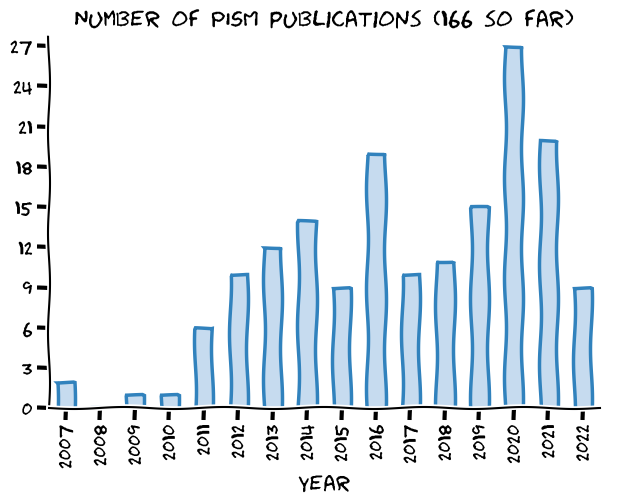
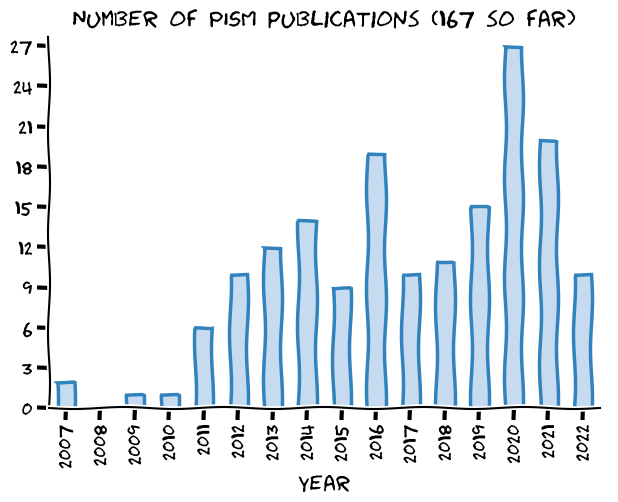
[skip ci] Update the website

Changed region(s): [[0.123, 0.0, 0.9531, 0.0598], [0.9223, 0.5378, 0.9838, 0.7769]]

diff --git a/publications/index.html b/publications/index.html
@@ -294,6 +294,7 @@ window.onscroll = function() {
   <li>S. Hinck, E. J. Gowan, X. Zhang, and G. Lohmann. PISM-LakeCC: Implementing an adaptive proglacial lake boundary into an ice sheet model. <em>The Cryosphere</em>, pages 941–965, 2022. URL: <a href="https://tc.copernicus.org/articles/16/941/2022/">https://tc.copernicus.org/articles/16/941/2022/</a>, <a href="https://doi.org/10.5194/tc-16-941-2022">doi:10.5194/tc-16-941-2022</a>.</li>
   <li>Shuang Liu, Kaiheng Hu, Weiming Liu, and Paul A. Carling. Hydro-climatic characteristics of Yarlung Zangbo River Basin since the Last Glacial Maximum. <em>Adv. Atmos. Sci.</em>, 2022. <a href="https://doi.org/10.1007/s00376-021-1150-7">doi:10.1007/s00376-021-1150-7</a>.</li>
   <li>M. S. Madsen, S. Yang, G. Aðalgeirsdóttir, S. H. Svendsen, C. B. Rodehacke, and I. M. Ringgaard. The role of an interactive greenland ice sheet in the coupled climate-ice sheet model EC-earth-PISM. <em>Climate Dynamics</em>, Feb 2022. <a href="https://doi.org/10.1007/s00382-022-06184-6">doi:10.1007/s00382-022-06184-6</a>.</li>
+  <li>T. Schlemm, J. Feldmann, R. Winkelmann, and A. Levermann. Stabilizing effect of mélange buttressing on the marine ice cliff instability of the west antarctic ice sheet. <em>The Cryosphere Discussions</em>, 2022. accepted. URL: <a href="https://tc.copernicus.org/preprints/tc-2021-238/">https://tc.copernicus.org/preprints/tc-2021-238/</a>, <a href="https://doi.org/10.5194/tc-2021-238">doi:10.5194/tc-2021-238</a>.</li>
   <li>Martin Siegert and Nicholas R Golledge. Advances in Numerical Modelling of the Antarctic Ice Sheet. In <em>Antarctic Climate Evolution</em>, chapter 5, pages 199–218. Elsevier, 2nd edition, 2022.</li>
   <li>Qing Yan, Lewis A. Owen, Chuncheng Guo, Zhongshi Zhang, Jinzhe Zhang, and Huijun Wang. Widespread glacier advances across the Tian Shan during Marine Isotope Stage 3 not supported by climate-glaciation simulations. <em>Fundamental Research</em>, 2022. URL: <a href="https://www.sciencedirect.com/science/article/pii/S266732582200111X">https://www.sciencedirect.com/science/article/pii/S266732582200111X</a>, <a href="https://doi.org/10.1016/j.fmre.2022.01.033">doi:10.1016/j.fmre.2022.01.033</a>.</li>
   <li>Hu Yang, Uta Krebs-Kanzow, Thomas Kleiner, Dmitry Sidorenko, Christian Bernd Rodehacke, Xiaoxu Shi, Paul Gierz, Lu Niu, Evan J. Gowan, Sebastian Hinck, Xingxing Liu, Lennert B. Stap, and Gerrit Lohmann. Impact of paleoclimate on present and future evolution of the Greenland Ice Sheet. <em>PLOS ONE</em>, 17(1):1–21, 2022. <a href="https://doi.org/10.1371/journal.pone.0259816">doi:10.1371/journal.pone.0259816</a>.</li>

diff --git a/publications/submitted/index.html b/publications/submitted/index.html
@@ -286,7 +286,6 @@ window.onscroll = function() {
 
 <ol>
   <li>J. Feldmann, R. Reese, R. Winkelmann, and A. Levermann. Shear-margin melting causes stronger transient ice discharge than ice-stream melting according to idealized simulations. <em>The Cryosphere Discussions</em>, 2021:1–28, 2021. URL: <a href="https://tc.copernicus.org/preprints/tc-2021-327/">https://tc.copernicus.org/preprints/tc-2021-327/</a>, <a href="https://doi.org/10.5194/tc-2021-327">doi:10.5194/tc-2021-327</a>.</li>
-  <li>T. Schlemm, J. Feldmann, R. Winkelmann, and A. Levermann. Stabilizing effect of mélange buttressing on the marine ice cliff instability of the west antarctic ice sheet. <em>The Cryosphere Discussions</em>, 2021:1–29, 2021. URL: <a href="https://tc.copernicus.org/preprints/tc-2021-238/">https://tc.copernicus.org/preprints/tc-2021-238/</a>, <a href="https://doi.org/10.5194/tc-2021-238">doi:10.5194/tc-2021-238</a>.</li>
   <li>C. Yue, L. S. Schmidt, L. Zhao, M. Wolovick, and J. C. Moore. Insensitivity of mass loss of icelandic vatnajökull ice cap to solar geoengineering. <em>The Cryosphere Discussions</em>, 2021:1–20, 2021. URL: <a href="https://tc.copernicus.org/preprints/tc-2021-318/">https://tc.copernicus.org/preprints/tc-2021-318/</a>, <a href="https://doi.org/10.5194/tc-2021-318">doi:10.5194/tc-2021-318</a>.</li>
   <li>M. Zeitz, J. M. Haacker, J. F. Donges, T. Albrecht, and R. Winkelmann. Dynamic regimes of the greenland ice sheet emerging from interacting melt-elevation and glacial isostatic adjustment feedbacks. <em>Earth System Dynamics Discussions</em>, 2021:1–25, 2021. URL: <a href="https://esd.copernicus.org/preprints/esd-2021-100/">https://esd.copernicus.org/preprints/esd-2021-100/</a>, <a href="https://doi.org/10.5194/esd-2021-100">doi:10.5194/esd-2021-100</a>.</li>
   <li>M. Zeitz, R. Winkelmann, and A. Levermann. Implications of flow law uncertainty for flow-driven ice-loss in greenland under idealized warming pathways. <em>The Cryosphere Discussions</em>, 2021. URL: <a href="http://www.pik-potsdam.de/~anders/publications/zeitz_winkelmann21.pdf">http://www.pik-potsdam.de/~anders/publications/zeitz_winkelmann21.pdf</a>.</li>

diff --git a/publications/published.md b/publications/published.md
@@ -5,10 +5,11 @@
 3. S\. Hinck, E\. J\. Gowan, X\. Zhang, and G\. Lohmann\. PISM\-LakeCC: Implementing an adaptive proglacial lake boundary into an ice sheet model\. *The Cryosphere*, pages 941–965, 2022\. URL: [https://tc\.copernicus\.org/articles/16/941/2022/](https://tc.copernicus.org/articles/16/941/2022/), [doi:10\.5194/tc\-16\-941\-2022](https://doi.org/10.5194/tc-16-941-2022)\.   
 4. Shuang Liu, Kaiheng Hu, Weiming Liu, and Paul A\. Carling\. Hydro\-climatic characteristics of Yarlung Zangbo River Basin since the Last Glacial Maximum\. *Adv\. Atmos\. Sci\.*, 2022\. [doi:10\.1007/s00376\-021\-1150\-7](https://doi.org/10.1007/s00376-021-1150-7)\.   
 5. M\. S\. Madsen, S\. Yang, G\. Aðalgeirsdóttir, S\. H\. Svendsen, C\. B\. Rodehacke, and I\. M\. Ringgaard\. The role of an interactive greenland ice sheet in the coupled climate\-ice sheet model EC\-earth\-PISM\. *Climate Dynamics*, Feb 2022\. [doi:10\.1007/s00382\-022\-06184\-6](https://doi.org/10.1007/s00382-022-06184-6)\.   
-6. Martin Siegert and Nicholas R Golledge\. Advances in Numerical Modelling of the Antarctic Ice Sheet\. In *Antarctic Climate Evolution*, chapter 5, pages 199–218\. Elsevier, 2nd edition, 2022\.   
-7. Qing Yan, Lewis A\. Owen, Chuncheng Guo, Zhongshi Zhang, Jinzhe Zhang, and Huijun Wang\. Widespread glacier advances across the Tian Shan during Marine Isotope Stage 3 not supported by climate\-glaciation simulations\. *Fundamental Research*, 2022\. URL: [https://www\.sciencedirect\.com/science/article/pii/S266732582200111X](https://www.sciencedirect.com/science/article/pii/S266732582200111X), [doi:10\.1016/j\.fmre\.2022\.01\.033](https://doi.org/10.1016/j.fmre.2022.01.033)\.   
-8. Hu Yang, Uta Krebs\-Kanzow, Thomas Kleiner, Dmitry Sidorenko, Christian Bernd Rodehacke, Xiaoxu Shi, Paul Gierz, Lu Niu, Evan J\. Gowan, Sebastian Hinck, Xingxing Liu, Lennert B\. Stap, and Gerrit Lohmann\. Impact of paleoclimate on present and future evolution of the Greenland Ice Sheet\. *PLOS ONE*, 17\(1\):1–21, 2022\. [doi:10\.1371/journal\.pone\.0259816](https://doi.org/10.1371/journal.pone.0259816)\.   
-9. A\.\-S\. P\. Zinck and A\. Grinsted\. Brief communication: estimating the ice thickness of the müller ice cap to support selection of a drill site\. *The Cryosphere*, 16\(4\):1399–1407, 2022\. URL: [https://tc\.copernicus\.org/articles/16/1399/2022/](https://tc.copernicus.org/articles/16/1399/2022/), [doi:10\.5194/tc\-16\-1399\-2022](https://doi.org/10.5194/tc-16-1399-2022)\.   
+6. T\. Schlemm, J\. Feldmann, R\. Winkelmann, and A\. Levermann\. Stabilizing effect of mélange buttressing on the marine ice cliff instability of the west antarctic ice sheet\. *The Cryosphere Discussions*, 2022\. accepted\. URL: [https://tc\.copernicus\.org/preprints/tc\-2021\-238/](https://tc.copernicus.org/preprints/tc-2021-238/), [doi:10\.5194/tc\-2021\-238](https://doi.org/10.5194/tc-2021-238)\.   
+7. Martin Siegert and Nicholas R Golledge\. Advances in Numerical Modelling of the Antarctic Ice Sheet\. In *Antarctic Climate Evolution*, chapter 5, pages 199–218\. Elsevier, 2nd edition, 2022\.   
+8. Qing Yan, Lewis A\. Owen, Chuncheng Guo, Zhongshi Zhang, Jinzhe Zhang, and Huijun Wang\. Widespread glacier advances across the Tian Shan during Marine Isotope Stage 3 not supported by climate\-glaciation simulations\. *Fundamental Research*, 2022\. URL: [https://www\.sciencedirect\.com/science/article/pii/S266732582200111X](https://www.sciencedirect.com/science/article/pii/S266732582200111X), [doi:10\.1016/j\.fmre\.2022\.01\.033](https://doi.org/10.1016/j.fmre.2022.01.033)\.   
+9. Hu Yang, Uta Krebs\-Kanzow, Thomas Kleiner, Dmitry Sidorenko, Christian Bernd Rodehacke, Xiaoxu Shi, Paul Gierz, Lu Niu, Evan J\. Gowan, Sebastian Hinck, Xingxing Liu, Lennert B\. Stap, and Gerrit Lohmann\. Impact of paleoclimate on present and future evolution of the Greenland Ice Sheet\. *PLOS ONE*, 17\(1\):1–21, 2022\. [doi:10\.1371/journal\.pone\.0259816](https://doi.org/10.1371/journal.pone.0259816)\.   
+10. A\.\-S\. P\. Zinck and A\. Grinsted\. Brief communication: estimating the ice thickness of the müller ice cap to support selection of a drill site\. *The Cryosphere*, 16\(4\):1399–1407, 2022\. URL: [https://tc\.copernicus\.org/articles/16/1399/2022/](https://tc.copernicus.org/articles/16/1399/2022/), [doi:10\.5194/tc\-16\-1399\-2022](https://doi.org/10.5194/tc-16-1399-2022)\.   
 
 ### 2021
 

diff --git a/publications/submitted_papers.md b/publications/submitted_papers.md
@@ -1,10 +1,9 @@
 ### 2021
 
 1. J\. Feldmann, R\. Reese, R\. Winkelmann, and A\. Levermann\. Shear\-margin melting causes stronger transient ice discharge than ice\-stream melting according to idealized simulations\. *The Cryosphere Discussions*, 2021:1–28, 2021\. URL: [https://tc\.copernicus\.org/preprints/tc\-2021\-327/](https://tc.copernicus.org/preprints/tc-2021-327/), [doi:10\.5194/tc\-2021\-327](https://doi.org/10.5194/tc-2021-327)\.   
-2. T\. Schlemm, J\. Feldmann, R\. Winkelmann, and A\. Levermann\. Stabilizing effect of mélange buttressing on the marine ice cliff instability of the west antarctic ice sheet\. *The Cryosphere Discussions*, 2021:1–29, 2021\. URL: [https://tc\.copernicus\.org/preprints/tc\-2021\-238/](https://tc.copernicus.org/preprints/tc-2021-238/), [doi:10\.5194/tc\-2021\-238](https://doi.org/10.5194/tc-2021-238)\.   
-3. C\. Yue, L\. S\. Schmidt, L\. Zhao, M\. Wolovick, and J\. C\. Moore\. Insensitivity of mass loss of icelandic vatnajökull ice cap to solar geoengineering\. *The Cryosphere Discussions*, 2021:1–20, 2021\. URL: [https://tc\.copernicus\.org/preprints/tc\-2021\-318/](https://tc.copernicus.org/preprints/tc-2021-318/), [doi:10\.5194/tc\-2021\-318](https://doi.org/10.5194/tc-2021-318)\.   
-4. M\. Zeitz, J\. M\. Haacker, J\. F\. Donges, T\. Albrecht, and R\. Winkelmann\. Dynamic regimes of the greenland ice sheet emerging from interacting melt\-elevation and glacial isostatic adjustment feedbacks\. *Earth System Dynamics Discussions*, 2021:1–25, 2021\. URL: [https://esd\.copernicus\.org/preprints/esd\-2021\-100/](https://esd.copernicus.org/preprints/esd-2021-100/), [doi:10\.5194/esd\-2021\-100](https://doi.org/10.5194/esd-2021-100)\.   
-5. M\. Zeitz, R\. Winkelmann, and A\. Levermann\. Implications of flow law uncertainty for flow\-driven ice\-loss in greenland under idealized warming pathways\. *The Cryosphere Discussions*, 2021\. URL: [http://www\.pik\-potsdam\.de/~anders/publications/zeitz\_winkelmann21\.pdf](http://www.pik-potsdam.de/~anders/publications/zeitz_winkelmann21.pdf)\.   
+2. C\. Yue, L\. S\. Schmidt, L\. Zhao, M\. Wolovick, and J\. C\. Moore\. Insensitivity of mass loss of icelandic vatnajökull ice cap to solar geoengineering\. *The Cryosphere Discussions*, 2021:1–20, 2021\. URL: [https://tc\.copernicus\.org/preprints/tc\-2021\-318/](https://tc.copernicus.org/preprints/tc-2021-318/), [doi:10\.5194/tc\-2021\-318](https://doi.org/10.5194/tc-2021-318)\.   
+3. M\. Zeitz, J\. M\. Haacker, J\. F\. Donges, T\. Albrecht, and R\. Winkelmann\. Dynamic regimes of the greenland ice sheet emerging from interacting melt\-elevation and glacial isostatic adjustment feedbacks\. *Earth System Dynamics Discussions*, 2021:1–25, 2021\. URL: [https://esd\.copernicus\.org/preprints/esd\-2021\-100/](https://esd.copernicus.org/preprints/esd-2021-100/), [doi:10\.5194/esd\-2021\-100](https://doi.org/10.5194/esd-2021-100)\.   
+4. M\. Zeitz, R\. Winkelmann, and A\. Levermann\. Implications of flow law uncertainty for flow\-driven ice\-loss in greenland under idealized warming pathways\. *The Cryosphere Discussions*, 2021\. URL: [http://www\.pik\-potsdam\.de/~anders/publications/zeitz\_winkelmann21\.pdf](http://www.pik-potsdam.de/~anders/publications/zeitz_winkelmann21.pdf)\.   
 
 ### 2020
 
